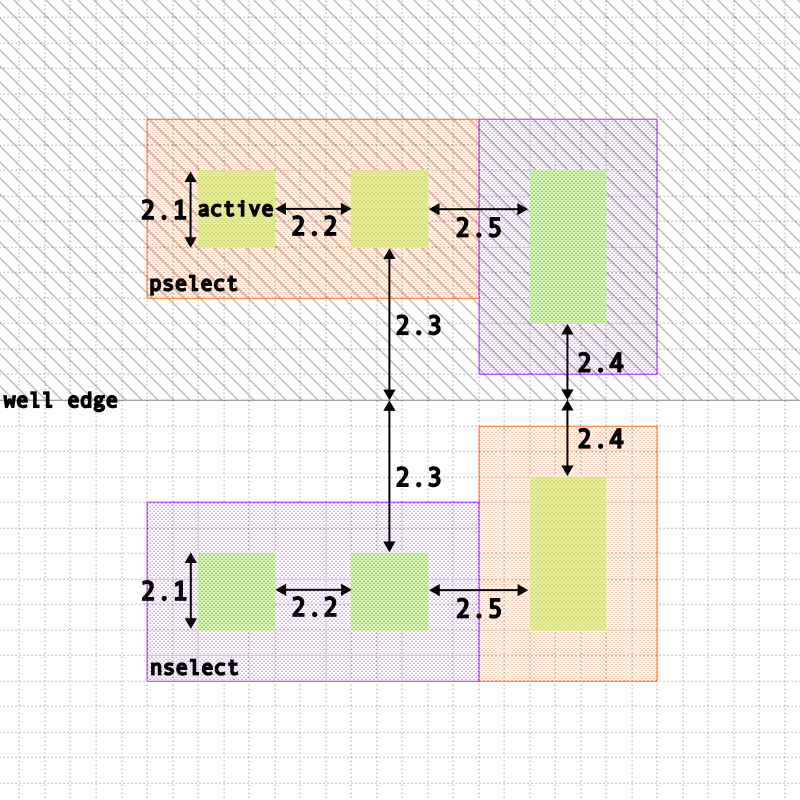
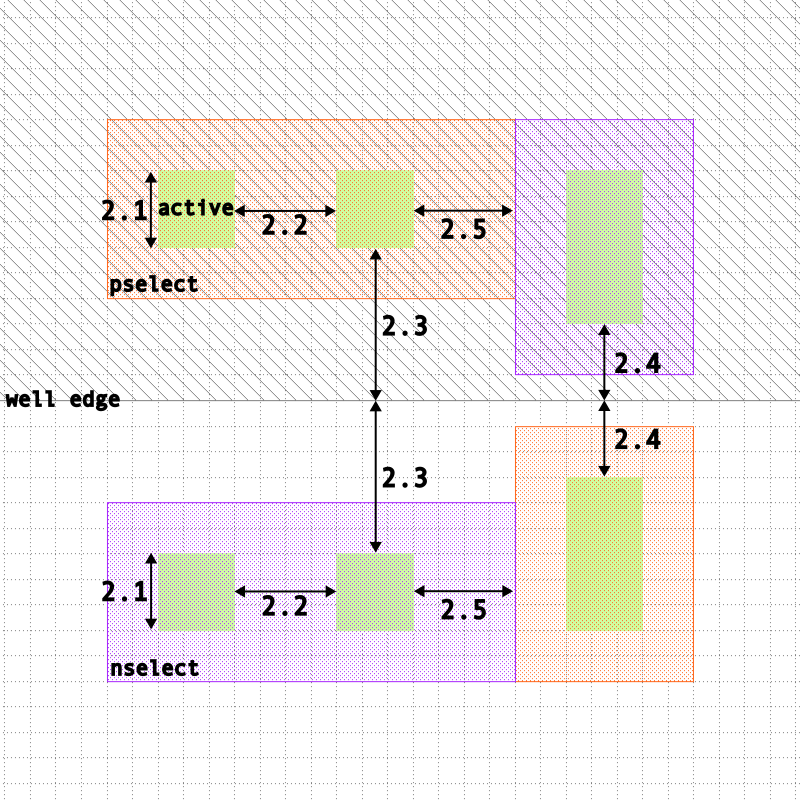
new DRM rules, base DRM

diff --git a/docs/ece6745-tinyflow-180nm-drm.md b/docs/ece6745-tinyflow-180nm-drm.md
@@ -5,7 +5,7 @@ Adapted from  MOSIS Scalable CMOS (SCMOS) Revision 8.0 (Technology: SCN6M DEEP) 
 
 Authors: Vayun Tiwari
 
-Last updated: January 27th, 2026
+Last updated: April 25th, 2026
 
 nwell
 --------------------------------------------------------------------------
@@ -23,10 +23,10 @@ active
 | Rule     | Description                                                                | $\lambda$ |
 |----------|----------------------------------------------------------------------------|-----------|
 | 2.1      | Minimum width                                                              | 3         |
-| 2.2      | Minimum spacing                                                            | 3         |
+| **2.2**  | **Minimum spacing**                                                        | **4**     |
 | 2.3      | Source/drain active to well edge                                           | 6         |
 | 2.4      | Substrate/well contact active to well edge                                 | 3         |
-| 2.5      | Minimum spacing between non-abutting active of different implant           | 4         |
+| **2.5**  | **Minimum spacing to edge of different implant**                           | **4**     |
 
 ![Active](img/0-klayout-drm-active.png)
 
@@ -40,9 +40,12 @@ poly
 | 3.2a     | Minimum spacing over active                                                | 4         |
 | 3.3      | Minimum gate extension of active                                           | 3         |
 | 3.4      | Minimum active extension of poly                                           | 4         |
-| 3.5      | Minimum field poly to active                                               | 1         |
+| **3.5**  | **Minimum field poly to active**                                           | **2**     |
+| **3.6**  | **Minimum field poly to tap active**                                       | **2**     |
 
-![Poly](img/0-klayout-drm-poly.png)
+![Poly](img/0-klayout-drm-poly1.png)
+
+![Poly](img/0-klayout-drm-poly2.png)
 
 pselect & nselect
 --------------------------------------------------------------------------
@@ -65,6 +68,7 @@ contact to poly
 | 5.2      | Minimum poly overlap                                                       | 2         |
 | 5.3      | Minimum contact spacing                                                    | 4         |
 | 5.4      | Minimum spacing to gate of transistor                                      | 2         |
+| 5.5      | Contact must be above poly or active (not pictured)                        | -         |
 
 ![Contact to poly](img/0-klayout-drm-contact-to-poly.png)
 
@@ -77,6 +81,7 @@ contact to active
 | 6.2      | Minimum active overlap                                                     | 2         |
 | 6.3      | Minimum contact spacing                                                    | 4         |
 | 6.4      | Minimum spacing to gate of transistor                                      | 2         |
+| 6.5      | Contact must be above active or poly (not pictured)                        | -         |
 
 ![Contact to active](img/0-klayout-drm-contact-to-active.png)
 
